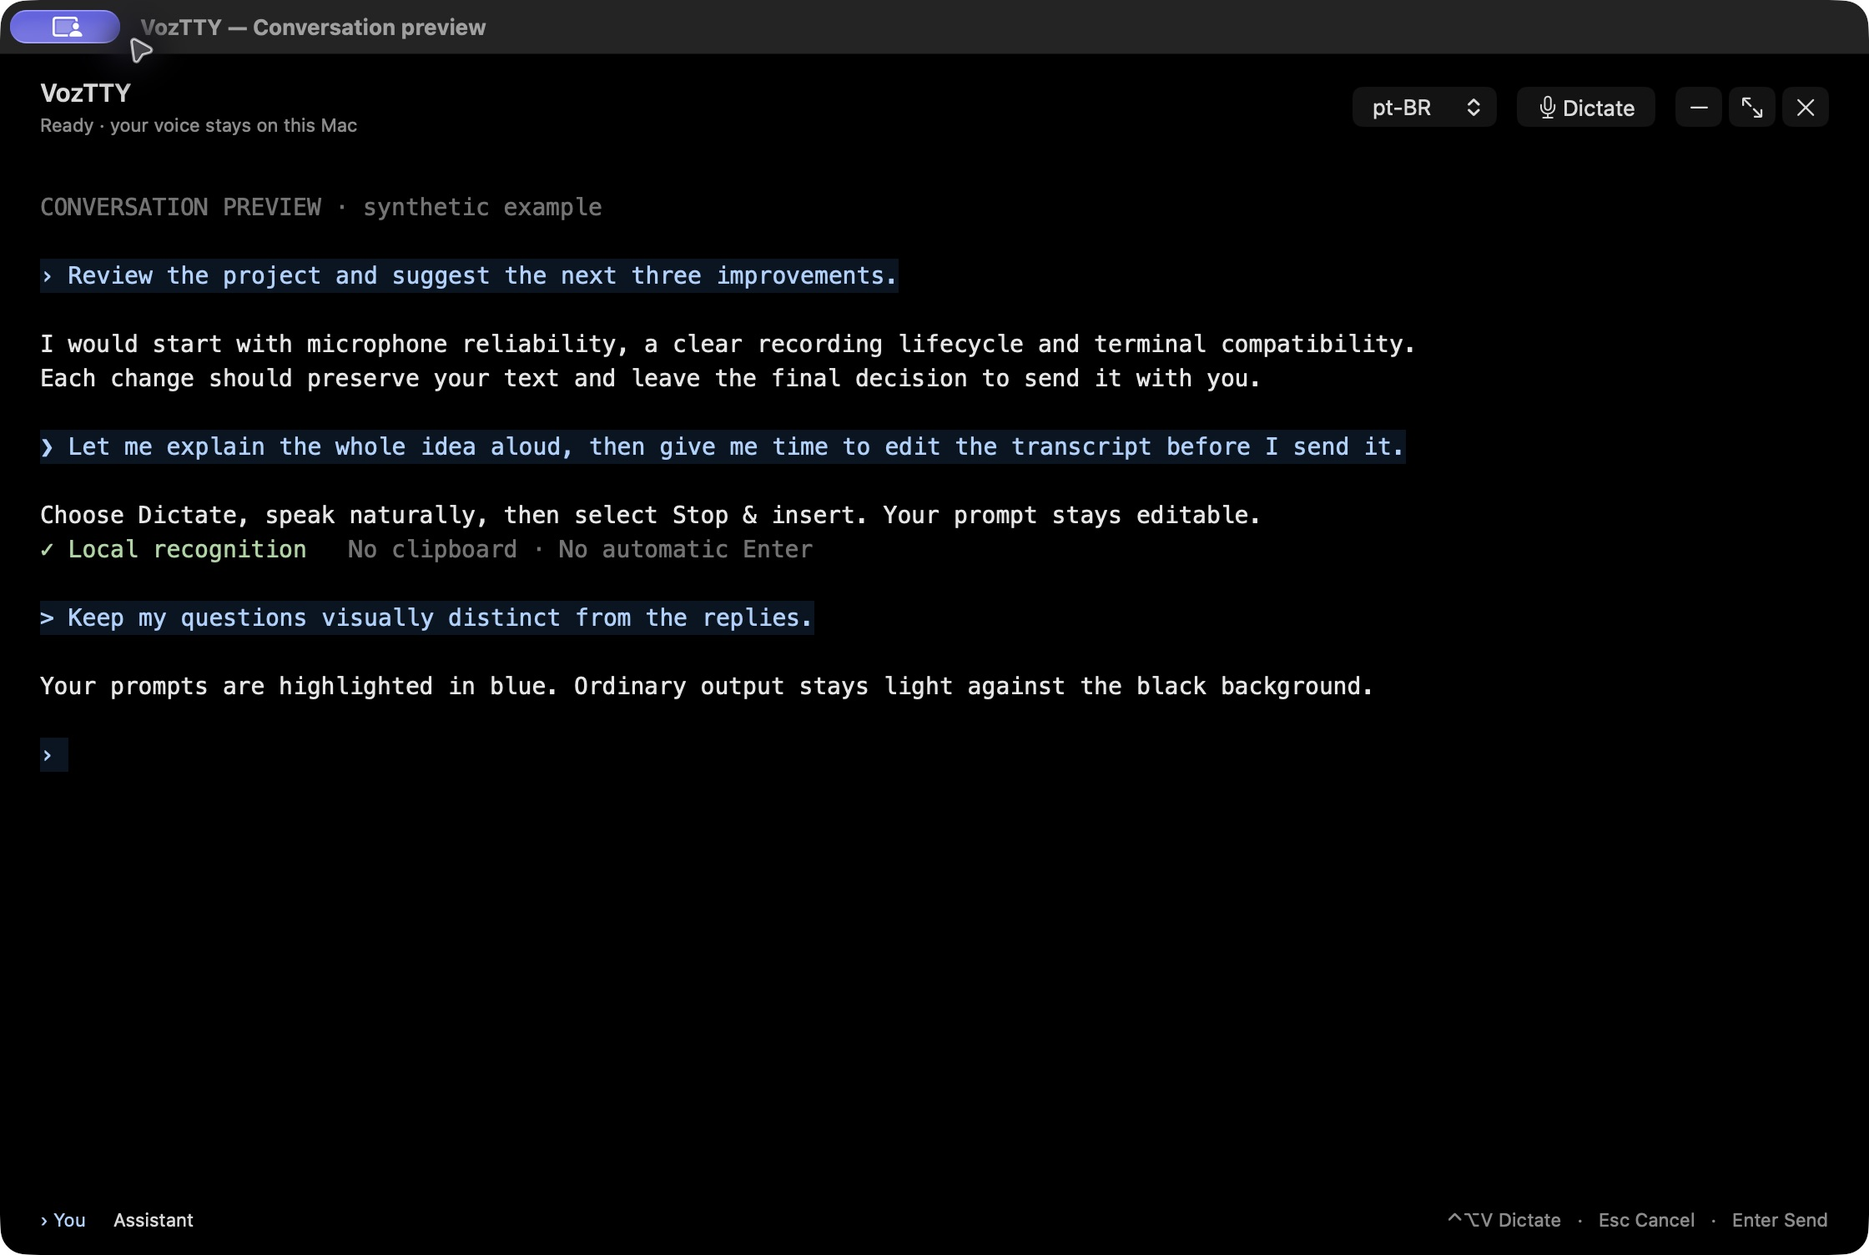
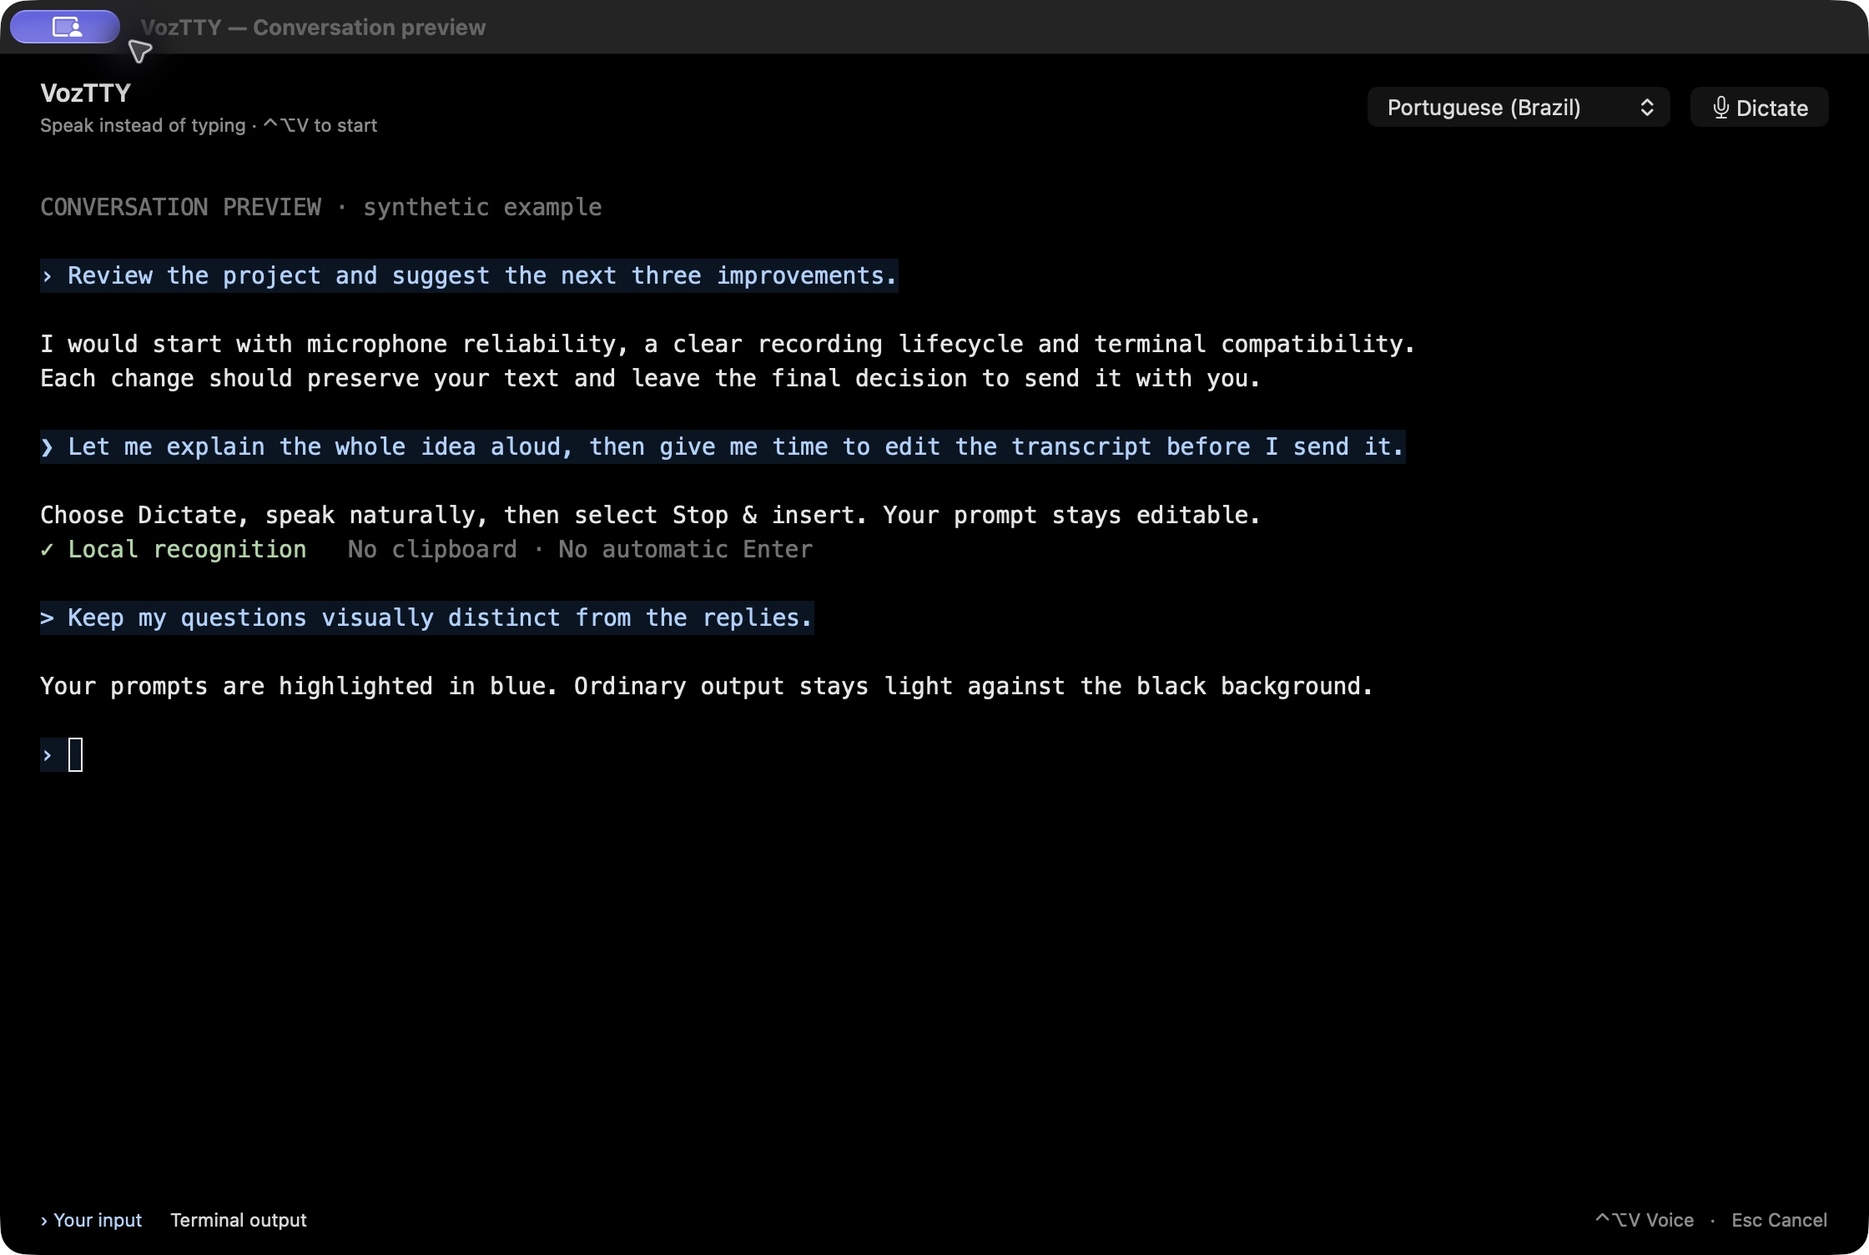
Simplify native terminal controls and clarify voice input

diff --git a/terminal/App.swift b/terminal/App.swift
@@ -7,7 +7,7 @@ final class TerminalWindow: NSObject, WKScriptMessageHandler, WKNavigationDelega
     let web: WKWebView
     let shell = ShellSession()
     let dictation = TerminalDictation()
-    let status = NSTextField(labelWithString: "Ready · your voice stays on this Mac")
+    let status = NSTextField(labelWithString: "Speak instead of typing · ⌃⌥V to start")
     let microphone = NSButton()
     let cancel = NSButton()
     let language = NSPopUpButton()
@@ -42,8 +42,13 @@ final class TerminalWindow: NSObject, WKScriptMessageHandler, WKNavigationDelega
         status.lineBreakMode = .byTruncatingTail
         status.setContentCompressionResistancePriority(.defaultLow, for: .horizontal)
         brand.setContentCompressionResistancePriority(.required, for: .horizontal)
-        language.addItems(withTitles: ["pt-BR", "pt-PT", "en-US"])
-        language.selectItem(withTitle: UserDefaults.standard.string(forKey: "language") ?? "pt-BR")
+        let savedLanguage = UserDefaults.standard.string(forKey: "language") ?? "pt-BR"
+        for (code, title) in [("pt-BR", "Portuguese (Brazil)"), ("pt-PT", "Portuguese (Portugal)"), ("en-US", "English (US)")] {
+            language.addItem(withTitle: title)
+            language.lastItem?.representedObject = code
+            if code == savedLanguage { language.select(language.lastItem) }
+        }
+        language.toolTip = "Choose the language you will speak. Recognition runs on your Mac."
         language.setAccessibilityLabel("Dictation language")
         language.target = self
         language.action = #selector(changeLanguage)
@@ -51,12 +56,13 @@ final class TerminalWindow: NSObject, WKScriptMessageHandler, WKNavigationDelega
         microphone.image = NSImage(systemSymbolName: "mic", accessibilityDescription: "Start dictation")
         microphone.imagePosition = .imageLeading
         microphone.bezelStyle = .rounded
-        microphone.contentTintColor = .labelColor
+        microphone.contentTintColor = NSColor(srgbRed: 169/255, green: 210/255, blue: 1, alpha: 1)
         microphone.setContentCompressionResistancePriority(.required, for: .horizontal)
         microphone.target = self
         microphone.action = #selector(toggleVoice)
-        microphone.toolTip = "Speak into this prompt. Control + Option + V."
+        microphone.toolTip = "Start voice dictation (Control + Option + V). Your text stays editable."
         cancel.title = "Cancel"
+        cancel.toolTip = "Discard this recording without inserting any text."
         cancel.bezelStyle = .rounded
         cancel.target = self
         cancel.action = #selector(cancelVoice)
@@ -66,29 +72,15 @@ final class TerminalWindow: NSObject, WKScriptMessageHandler, WKNavigationDelega
         identity.orientation = .vertical
         identity.alignment = .leading
         identity.spacing = 3
-        let windowControls = NSStackView()
-        windowControls.spacing = 4
-        for (symbol, label, action) in [
-            ("minus", "Minimize window", #selector(NSWindow.performMiniaturize(_:))),
-            ("arrow.up.left.and.arrow.down.right", "Maximize or restore window", #selector(NSWindow.zoom(_:))),
-            ("xmark", "Close window", #selector(NSWindow.performClose(_:)))
-        ] {
-            let button = NSButton(image: NSImage(systemSymbolName: symbol, accessibilityDescription: label)!, target: window, action: action)
-            button.bezelStyle = .rounded
-            button.toolTip = label
-            button.setAccessibilityLabel(label)
-            button.widthAnchor.constraint(equalToConstant: 28).isActive = true
-            windowControls.addArrangedSubview(button)
-        }
-        let bar = NSStackView(views: [identity, spacer, language, cancel, microphone, windowControls])
+        let bar = NSStackView(views: [identity, spacer, language, cancel, microphone])
         bar.orientation = .horizontal
         bar.spacing = 12
         bar.edgeInsets = NSEdgeInsets(top: 10, left: 24, bottom: 10, right: 24)
-        let you = NSTextField(labelWithString: "› You")
+        let you = NSTextField(labelWithString: "› Your input")
         you.textColor = NSColor(srgbRed: 169/255, green: 210/255, blue: 1, alpha: 1)
-        let assistant = NSTextField(labelWithString: "Assistant")
+        let assistant = NSTextField(labelWithString: "Terminal output")
         assistant.textColor = .labelColor
-        let shortcuts = NSTextField(labelWithString: "⌃⌥V Dictate   ·   Esc Cancel   ·   Enter Send")
+        let shortcuts = NSTextField(labelWithString: "⌃⌥V Voice   ·   Esc Cancel")
         shortcuts.textColor = .secondaryLabelColor
         for label in [you, assistant, shortcuts] { label.font = .systemFont(ofSize: 11) }
         let footer = NSStackView(views: [you, assistant, NSView(), shortcuts])
@@ -117,7 +109,7 @@ final class TerminalWindow: NSObject, WKScriptMessageHandler, WKNavigationDelega
             self.web.evaluateJavaScript("window.voz.insert(\(Self.json(text)))") { [weak self] _, error in
                 guard let self else { return }
                 if let error { self.recover(text, reason: "Could not insert the transcript: \(error.localizedDescription)") }
-                else { self.status.stringValue = "Text inserted · review before sending"; self.inserted?(text) }
+                else { self.status.stringValue = "Text inserted · review before pressing Enter"; self.inserted?(text) }
             }
         }
         dictation.failed = { [weak self] message in self?.error(message) }
@@ -157,25 +149,26 @@ final class TerminalWindow: NSObject, WKScriptMessageHandler, WKNavigationDelega
 
     @objc func toggleVoice() {
         if dictation.state == .recording { dictation.stop() }
-        else if dictation.state == .idle, shell.pid > 0 { dictation.start(language: language.titleOfSelectedItem ?? "pt-BR") }
+        else if dictation.state == .idle, shell.pid > 0 { dictation.start(language: language.selectedItem?.representedObject as? String ?? "pt-BR") }
         window.makeFirstResponder(web)
         js("window.voz.focus()")
     }
     @objc func cancelVoice() { dictation.cancel(); window.makeFirstResponder(web) }
-    @objc func changeLanguage() { UserDefaults.standard.set(language.titleOfSelectedItem, forKey: "language") }
+    @objc func changeLanguage() { UserDefaults.standard.set(language.selectedItem?.representedObject as? String ?? "pt-BR", forKey: "language") }
 
     private func voiceState(_ state: TerminalDictation.State) {
         let active = state != .idle
         cancel.isHidden = !active
         language.isEnabled = !active
         microphone.isEnabled = (state == .idle || state == .recording) && shell.pid > 0
-        microphone.contentTintColor = state == .recording ? .systemRed : .labelColor
+        microphone.contentTintColor = state == .recording ? .systemRed : NSColor(srgbRed: 169/255, green: 210/255, blue: 1, alpha: 1)
         microphone.title = state == .recording ? "Stop & insert" : "Dictate"
+        microphone.toolTip = state == .recording ? "Stop recording and insert the text without sending it." : "Start voice dictation (Control + Option + V). Your text stays editable."
         microphone.image = NSImage(systemSymbolName: state == .recording ? "stop.fill" : "mic", accessibilityDescription: microphone.title)
         status.stringValue = switch state {
-        case .idle: "Ready · your voice stays on this Mac"
+        case .idle: "Speak instead of typing · ⌃⌥V to start"
         case .preparing: "Preparing microphone · authorize access if macOS asks"
-        case .recording: "Recording · speak your whole thought"
+        case .recording: "Listening · click Stop & insert when you are done"
         case .stopping: "Transcribing on your Mac…"
         }
         js("window.voz.state(\(active))")

diff --git a/test/terminal.integration.swift b/test/terminal.integration.swift
@@ -33,6 +33,17 @@ extension TerminalWindow {
             result["frontendReady"] = true
             result["childPID"] = shell.pid
             if mode == "layout" {
+                let originalLanguage = language.indexOfSelectedItem
+                var languageCodes: [String] = []
+                for index in 0..<language.numberOfItems {
+                    language.selectItem(at: index)
+                    languageCodes.append(language.selectedItem?.representedObject as? String ?? "")
+                }
+                language.selectItem(at: originalLanguage)
+                guard languageCodes == ["pt-BR", "pt-PT", "en-US"] else {
+                    throw NSError(domain: "VozTTYTest", code: 7, userInfo: [NSLocalizedDescriptionKey: "Language labels no longer map to the speech engine identifiers."])
+                }
+                result["languageCodes"] = languageCodes
                 window.makeKeyAndOrderFront(nil)
                 NSApplication.shared.activate(ignoringOtherApps: true)
                 var sizes: [[String: Any]] = []

diff --git a/README.md b/README.md
@@ -3,7 +3,7 @@
 <p align="center"><strong>Speak your next prompt.</strong><br />Local voice dictation for your Mac terminal and VS Code.<br />Speak freely. Review the text. Press Enter when you are ready.</p>
 
 <p align="center">
-  <a href="https://github.com/ricdanyalgil/VozTTY/releases/tag/v0.2.0"><img src="https://img.shields.io/github/v/release/ricdanyalgil/VozTTY?include_prereleases&amp;label=public%20preview&amp;style=flat" alt="Public preview release" /></a>
+  <a href="https://github.com/ricdanyalgil/VozTTY/releases/tag/v0.2.1"><img src="https://img.shields.io/github/v/release/ricdanyalgil/VozTTY?include_prereleases&amp;label=public%20preview&amp;style=flat" alt="Public preview release" /></a>
   <a href="LICENSE"><img src="https://img.shields.io/badge/license-MIT-blue?style=flat" alt="MIT license" /></a>
   <img src="https://img.shields.io/badge/macOS-26%2B-black?logo=apple&amp;style=flat" alt="macOS 26 or later" />
   <img src="https://img.shields.io/badge/Apple%20Silicon-arm64-555555?style=flat" alt="Apple Silicon arm64" />
@@ -37,9 +37,9 @@ Text arrives **after you stop recording**. Word-by-word live transcription is no
 | Where | A standalone native Mac application | Your existing integrated terminals |
 | Voice controls | **Dictate / Stop & insert** in the header | Microphone and Stop icons in the terminal toolbar |
 | Display | Black background, blue prompt accents and light output | Your VS Code terminal theme |
-| Window | Minimize, maximize/restore and close controls | Standard VS Code controls |
+| Window | Standard macOS title-bar controls | Standard VS Code controls |
 | Engine | AppKit, WebKit, xterm.js and a real macOS PTY | VS Code terminal API and a native Swift helper |
-| Current package | **0.2.0** | **0.1.2** |
+| Current package | **0.2.1** | **0.1.2** |
 
 The Mac terminal currently supports one window/session per instance. Tabs, split panes and session restoration are on the roadmap.
 
@@ -49,9 +49,9 @@ The Mac terminal currently supports one window/session per instance. Tabs, split
 
 | Package | Download | Install |
 | :--- | :--- | :--- |
-| Mac terminal | [VozTTY Terminal 0.2.0 ZIP](https://github.com/ricdanyalgil/VozTTY/releases/download/v0.2.0/voztty-terminal-0.2.0-darwin-arm64.zip) | Extract and move **VozTTY.app** to **Applications** |
-| VS Code extension | [VozTTY 0.1.2 VSIX](https://github.com/ricdanyalgil/VozTTY/releases/download/v0.2.0/voztty-0.1.2-darwin-arm64.vsix) | **Extensions → … → Install from VSIX…** |
-| Integrity | [SHA256SUMS.txt](https://github.com/ricdanyalgil/VozTTY/releases/download/v0.2.0/SHA256SUMS.txt) | Verify with `shasum -a 256 -c SHA256SUMS.txt` in the download folder |
+| Mac terminal | [VozTTY Terminal 0.2.1 ZIP](https://github.com/ricdanyalgil/VozTTY/releases/download/v0.2.1/voztty-terminal-0.2.1-darwin-arm64.zip) | Extract and move **VozTTY.app** to **Applications** |
+| VS Code extension | [VozTTY 0.1.2 VSIX](https://github.com/ricdanyalgil/VozTTY/releases/download/v0.2.1/voztty-0.1.2-darwin-arm64.vsix) | **Extensions → … → Install from VSIX…** |
+| Integrity | [SHA256SUMS.txt](https://github.com/ricdanyalgil/VozTTY/releases/download/v0.2.1/SHA256SUMS.txt) | Verify with `shasum -a 256 -c SHA256SUMS.txt` in the download folder |
 
 These are **public preview builds**, signed ad hoc and **not notarized by Apple**. macOS may require a manual security review before opening them. Building from source is also supported. The extension is distributed through GitHub Releases; it is not listed on the VS Code Marketplace yet.
 
@@ -67,7 +67,7 @@ claude
 agy
 ```
 
-Click **Dictate**, wait for **Recording**, speak, then choose **Stop & insert**. Read and edit the transcript before pressing Enter. The CLIs must be installed and authenticated separately; VozTTY does not bundle them or manage their accounts.
+Click **Dictate**, wait for **Listening**, speak, then choose **Stop & insert**. Read and edit the transcript before pressing Enter. Choose your spoken language by name in the header; the interface keeps window actions in the standard macOS title bar. The CLIs must be installed and authenticated separately; VozTTY does not bundle them or manage their accounts.
 
 ### In VS Code
 

diff --git a/terminal/README.md b/terminal/README.md
@@ -13,9 +13,9 @@ open terminal/VozTTY.app
 
 The renderer is vendored with its upstream licenses. There is no Node.js runtime, package installation or CDN dependency in the app. `-- /absolute/executable [arguments...]` starts an executable directly; otherwise the app starts `/bin/zsh -l`. The working directory is inherited, or the home directory when started from `/`.
 
-Click **Dictate**, wait for **Recording**, speak, then **Stop & insert**. The shortcut is **Control + Option + V** while the terminal is focused. **Esc** cancels. Select a language from the toolbar. Dictation is passed through xterm.js's paste path, including bracketed paste when the child application requests that mode. It never appends Return.
+Click **Dictate**, wait for **Listening**, speak, then **Stop & insert**. The shortcut is **Control + Option + V** while the terminal is focused. **Esc** cancels. Select a language from the toolbar. Dictation is passed through xterm.js's paste path, including bracketed paste when the child application requests that mode. It never appends Return.
 
-The header includes persistent Minimize, Maximize/restore and Close controls in addition to the standard macOS title bar. Close uses the existing active-session confirmation.
+Window controls live only in the standard macOS title bar. The content header is reserved for voice input: readable spoken-language names, Cancel when needed and Dictate/Stop & insert. The language names map to the same pt-BR, pt-PT and en-US engine identifiers and preserve existing preferences. Closing an active session still asks for confirmation.
 
 This preview has one window/session. No tabs, splits, session restoration, configurable profiles or notarization yet. Closing a running shell asks for confirmation. Closing the app loses unsent terminal text and unsaved recovery windows.
 

diff --git a/CONTINUAR.md b/CONTINUAR.md
@@ -6,7 +6,7 @@ The maintainer explicitly authorized making the repository public and publishing
 
 ## Current products
 
-- Native Mac terminal: black layout, blue prompt accents, persistent window controls, corrected grid sizing and app icon. Installed in /Applications/VozTTY.app.
+- Native Mac terminal: black layout, blue prompt accents, standard macOS title-bar controls, corrected grid sizing and app icon. Installed in /Applications/VozTTY.app.
 - Extension: English UI/messages in 0.1.2, stable command IDs and original no-Enter/no-clipboard behavior. Do not interrupt existing VS Code windows to update them.
 - Main README, contribution guide and release notes are in English. Optional Portuguese documentation remains available.
 - Both clients use the local Apple SpeechAnalyzer helper. Apple Silicon/macOS 26+ only; ad hoc signed, not notarized.
@@ -25,3 +25,7 @@ Twelve JavaScript unit tests, native PTY/input checks, long draft insertion in a
 ## Before another release
 
 Build both packages, inspect their contents, run relevant checks, prepare checksums and verify the public release assets. Keep third-party licenses. Reviewers should distinguish synthetic layout screenshots from actual assistant/recognition results. Do not publish to the VS Code Marketplace without a separate request.
+
+## Native 0.2.1 follow-up
+
+The maintainer requested removal of duplicate header window controls. Only standard macOS title-bar controls remain. Native 0.2.1 adds readable spoken-language names, shorter hints and clearer voice actions while preserving language IDs/preferences. VS Code stays at 0.1.2. Prepare and verify the native update and its public patch release without overwriting v0.2.0 artifacts or interrupting open sessions.

diff --git a/VALIDACAO.md b/VALIDACAO.md
@@ -115,3 +115,9 @@ Release checks passed: 12 JavaScript unit tests; native text/PTY/resize checks; 
 The full Git history was scanned for secrets. Two generic-key matches were inside the unmodified xterm.js bundle; its bytes were verified against the official @xterm/xterm 6.0.0 npm archive (SHA-256 14903579ff54664cd72f8e8699e6961a6272c21863ec1c3b118cdc8af5d4a972). Only those exact historical fingerprints were excluded from the local audit; no other findings remained. Diagnostics, recordings and scanner reports stay outside the repository. Packages remain ad hoc signed and not Apple-notarized.
 
 Publication verified: GitHub repository PUBLIC; v0.2.0 published as a public prerelease with both binary packages and SHA256SUMS.txt. All three assets downloaded without authentication and matched the local files byte for byte. English README accessible without login. No VS Code Marketplace publication was performed.
+
+## Native 0.2.1 usability update — 2026-10-23
+
+Removed the duplicate window buttons from the content header at the maintainer's request. Standard macOS close/minimize/zoom controls remain. The voice header now uses readable language names, a clearer Dictate action, shorter keyboard hints and clearer listening/review guidance. Existing language IDs and preferences are preserved through menu-item represented values.
+
+The native layout regression passed at 1120 → 620 → 800 → 1440 → 1120 px with no grid overflow. All three displayed language choices map to the supported pt-BR, pt-PT and en-US identifiers; the test restores its original selection without changing saved preferences. Local evidence: work/native-021-layout.json. No new microphone run was performed for this UI-only patch.

diff --git a/README.pt-BR.md b/README.pt-BR.md
@@ -2,7 +2,7 @@
 
 **Fale o próximo prompt sem sair do terminal.** Projeto open source com licença MIT. [English](README.md) · [Releases](https://github.com/ricdanyalgil/VozTTY/releases)
 
-**Estado de publicação:** prévia pública autorizada pelo responsável. O terminal Mac e a extensão VS Code estão disponíveis nos [downloads da release v0.2.0](https://github.com/ricdanyalgil/VozTTY/releases/tag/v0.2.0). Os pacotes ainda não têm notarização da Apple.
+**Estado de publicação:** prévia pública autorizada pelo responsável. O terminal Mac e a extensão VS Code estão disponíveis nos [downloads da release v0.2.0](https://github.com/ricdanyalgil/VozTTY/releases/tag/v0.2.1). Os pacotes ainda não têm notarização da Apple.
 
 Microfone na barra do terminal, com reconhecimento local no Mac e inserção direta no prompt. Não lê nem escreve no clipboard e não acrescenta Enter.
 

diff --git a/CHANGELOG.md b/CHANGELOG.md
@@ -1,5 +1,13 @@
 # Changelog
 
+## Public preview v0.2.1 — 2026-10-23
+
+Native terminal update; the VS Code extension remains 0.1.2.
+
+- Remove duplicate minimize/maximize/close buttons from the content header; keep the standard macOS title-bar controls.
+- Show readable language names while preserving the recognition language IDs and saved preferences.
+- Make Dictate easier to find, shorten the keyboard hints and clarify recording, cancellation and review guidance.
+
 ## Public preview v0.2.0 — 2026-10-23
 
 This release includes two separate downloads: **VozTTY Terminal 0.2.0** and the **VS Code extension 0.1.2**.
